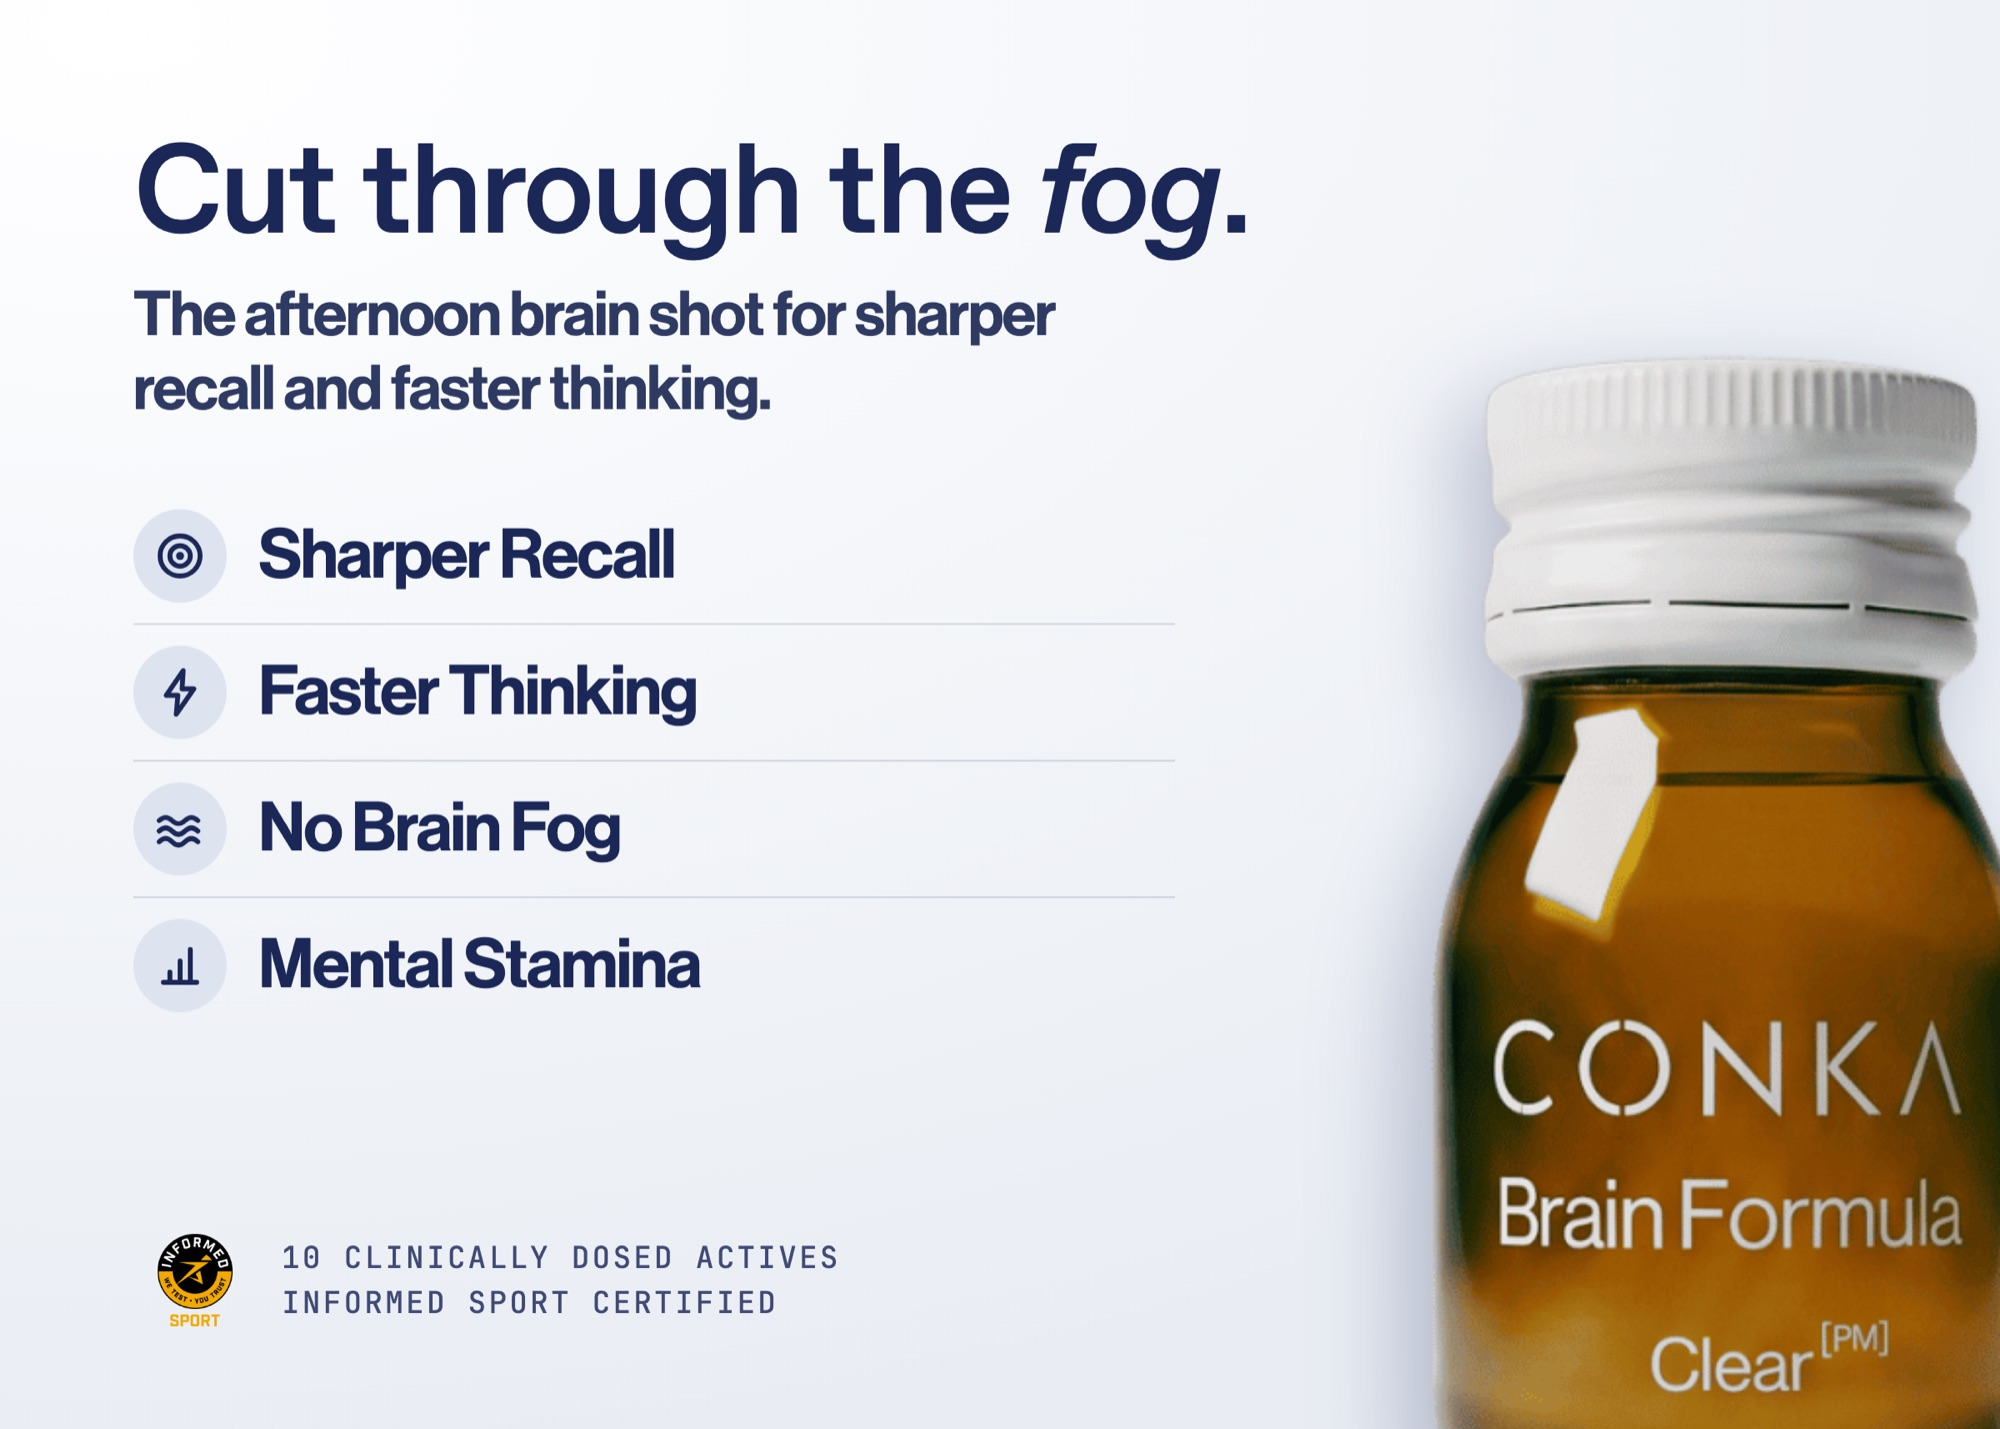
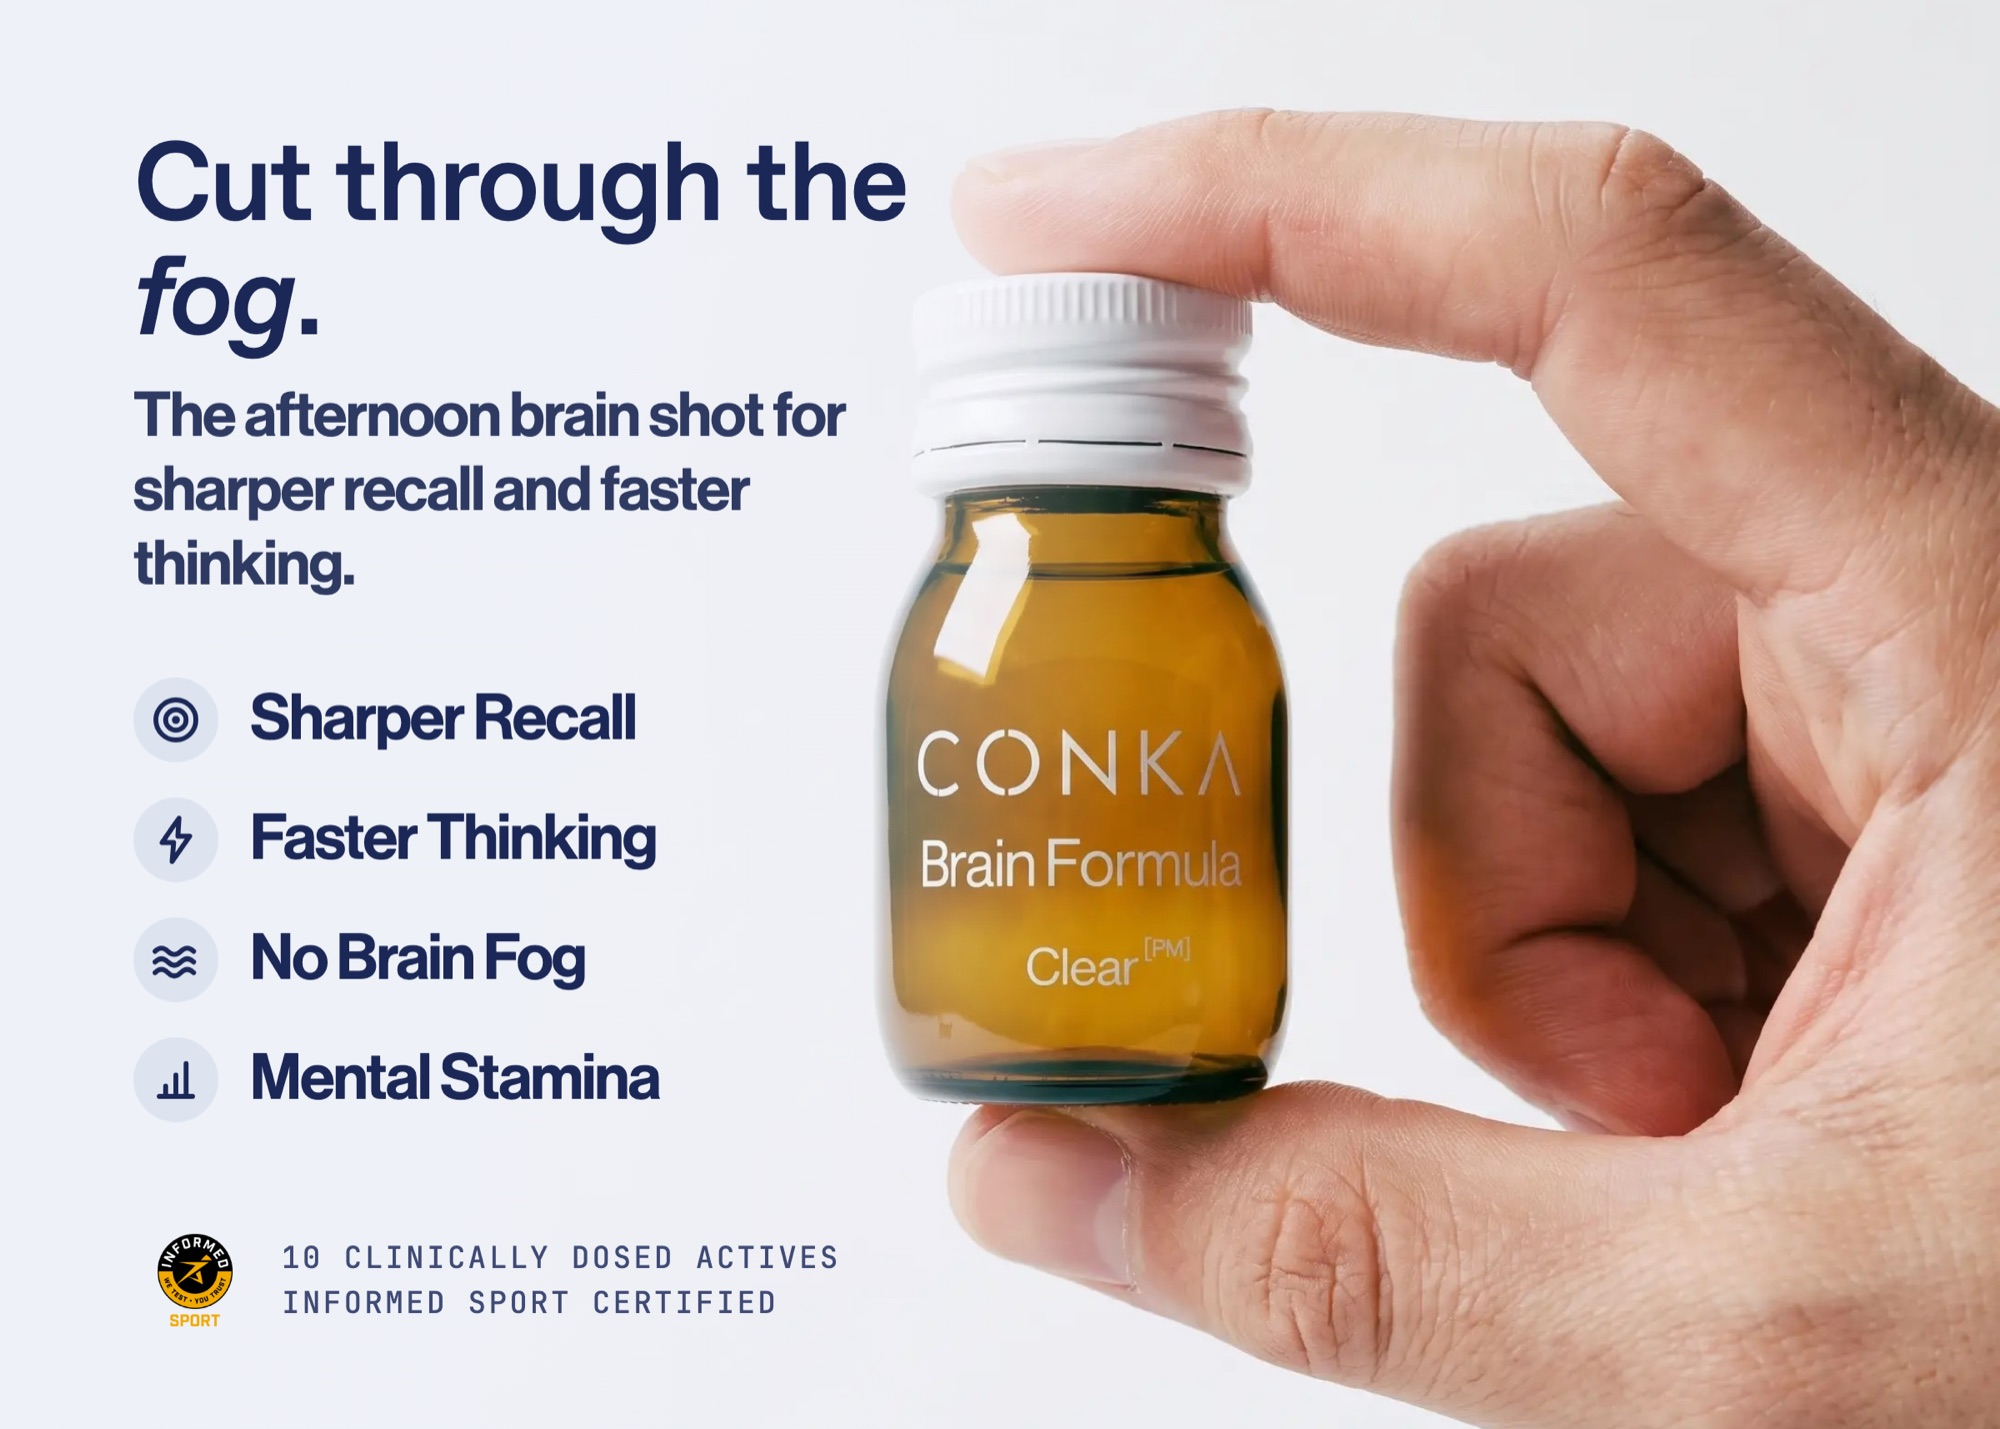
feat: hand-hold shots, per-product guarantee, better Clear cutout
Three changes from review.

The benefit stack now leads with the hand-holding-the-shot photograph rather
than a cutout on a gradient. It is the only human presence in the set, and the
only thing that shows how small a 30ml shot actually is — a product fact
nobody learns until it arrives. Its own empty left third carries the copy, so
the layout needed a scrim rather than a rebuild. The row hairlines are gone:
they ran under the bottle.

The guarantee is no longer shared. Each formula shows its own box, since the
caps differ. SharedGuarantee.jpg is deleted; proof and testing stay shared.

The Clear cutout is replaced. The previous one, from FMC-style, matched on
resolution but carried a visible olive-green cast next to Flow's warm amber.

Also retuned both guarantee slides: the scrim held near-opaque out to 52% and
washed most of the box out. It now starts falling off at 32% and clears by
58%, with the box pushed further right, so the box reads while the copy stays
fully legible.

Claude-Session: https://claude.ai/code/session_01AEGTL4LFRjcKoyGBkYzduk

diff --git a/design/pdp-slides/slides/c1.html b/design/pdp-slides/slides/c1.html
@@ -1,27 +1,28 @@
 <!doctype html><meta charset="utf-8"><title>C1 Benefit Stack (Clear)</title>
 <link rel="stylesheet" href="_base.css">
 <style>
-.slide{background:radial-gradient(120% 100% at 6% 2%, #fff 0%, #f5f7fa 44%, #e9edf3 100%)}
+.slide{background:#ebeced}
 
 /* Bottle emerging from the bottom-right corner, cropped by both edges
    (GrayMatter treatment). Cut out from the 2752px studio shot. */
-.shot{position:absolute;right:-40px;bottom:-170px;height:1460px;z-index:1;
-  filter:drop-shadow(-34px 34px 54px rgba(27,39,87,.26))}
+.bg{position:absolute;inset:0;z-index:0;background-image:url("../assets/ClearShotHold.jpg");
+  background-size:auto 1975px;background-repeat:no-repeat;background-position:100% 52%}
+.scrim{position:absolute;inset:0;z-index:1;background:linear-gradient(100deg,
+  rgba(238,241,247,.97) 0%, rgba(238,241,247,.93) 30%,
+  rgba(238,241,247,.55) 42%, rgba(238,241,247,0) 56%)}
 
-h1{font-family:Favorit;font-weight:500;font-size:152px;line-height:1;
-  letter-spacing:-.03em;max-width:1400px;position:relative;z-index:3}
+h1{font-family:Favorit;font-weight:500;font-size:134px;line-height:1.02;
+  letter-spacing:-.03em;max-width:1080px;position:relative;z-index:3}
 h1 em{font-style:italic}
 
 .sub{font-weight:500;font-size:74px;line-height:1.2;letter-spacing:-.018em;
-  color:#2f3a63;margin-top:32px;max-width:1180px;position:relative;z-index:3}
+  color:#2f3a63;margin-top:32px;max-width:1010px;position:relative;z-index:3}
 
-ul{list-style:none;margin-top:74px;max-width:1250px;position:relative;z-index:3}
-li{display:flex;align-items:center;gap:38px;padding:25px 0;
-  border-bottom:2px solid rgba(27,39,87,.16);
-  font-weight:500;font-size:82px;letter-spacing:-.022em;color:var(--navy)}
-li:last-child{border-bottom:0}
+ul{list-style:none;margin-top:70px;max-width:1120px;position:relative;z-index:3}
+li{display:flex;align-items:center;gap:38px;padding:21px 0;
+    font-weight:500;font-size:76px;letter-spacing:-.022em;color:var(--navy)}
 
-.ic{flex:0 0 112px;width:112px;height:112px;border-radius:50%;background:#dde4f0;
+.ic{flex:0 0 102px;width:102px;height:102px;border-radius:50%;background:#dde4f0;
   display:flex;align-items:center;justify-content:center}
 .ic svg{width:66px;height:64px;stroke:var(--navy);stroke-width:2.2;fill:none;
   stroke-linecap:round;stroke-linejoin:round}
@@ -34,7 +35,8 @@ li:last-child{border-bottom:0}
   line-height:1.5;color:#3f4a75}
 </style>
 <div class="slide">
-  <img class="shot" src="../assets/ClearCutout.png">
+  <div class="bg"></div>
+  <div class="scrim"></div>
 
   <h1>Cut through the <em>fog</em>.</h1>
   <div class="sub">The afternoon brain shot for sharper recall and faster thinking.</div>

diff --git a/design/pdp-slides/slides/s1.html b/design/pdp-slides/slides/s1.html
@@ -1,27 +1,28 @@
 <!doctype html><meta charset="utf-8"><title>S1 Benefit Stack</title>
 <link rel="stylesheet" href="_base.css">
 <style>
-.slide{background:radial-gradient(120% 100% at 6% 2%, #fff 0%, #f5f7fa 44%, #e9edf3 100%)}
+.slide{background:#eef1f7}
 
 /* Bottle emerging from the bottom-right corner, cropped by both edges
    (GrayMatter treatment). Cut out from the 2752px studio shot. */
-.shot{position:absolute;right:-40px;bottom:-170px;height:1460px;z-index:1;
-  filter:drop-shadow(-34px 34px 54px rgba(27,39,87,.26))}
+.bg{position:absolute;inset:0;z-index:0;background-image:url("../assets/FlowShotHold.jpg");
+  background-size:auto 1975px;background-repeat:no-repeat;background-position:100% 52%}
+.scrim{position:absolute;inset:0;z-index:1;background:linear-gradient(100deg,
+  rgba(238,241,247,.97) 0%, rgba(238,241,247,.93) 30%,
+  rgba(238,241,247,.55) 42%, rgba(238,241,247,0) 56%)}
 
-h1{font-family:Favorit;font-weight:500;font-size:152px;line-height:1;
-  letter-spacing:-.03em;max-width:1400px;position:relative;z-index:3}
+h1{font-family:Favorit;font-weight:500;font-size:134px;line-height:1.02;
+  letter-spacing:-.03em;max-width:1080px;position:relative;z-index:3}
 h1 em{font-style:italic}
 
 .sub{font-weight:500;font-size:74px;line-height:1.2;letter-spacing:-.018em;
-  color:#2f3a63;margin-top:32px;max-width:1180px;position:relative;z-index:3}
+  color:#2f3a63;margin-top:32px;max-width:1010px;position:relative;z-index:3}
 
-ul{list-style:none;margin-top:74px;max-width:1250px;position:relative;z-index:3}
-li{display:flex;align-items:center;gap:38px;padding:25px 0;
-  border-bottom:2px solid rgba(27,39,87,.16);
-  font-weight:500;font-size:82px;letter-spacing:-.022em;color:var(--navy)}
-li:last-child{border-bottom:0}
+ul{list-style:none;margin-top:70px;max-width:1120px;position:relative;z-index:3}
+li{display:flex;align-items:center;gap:38px;padding:21px 0;
+    font-weight:500;font-size:76px;letter-spacing:-.022em;color:var(--navy)}
 
-.ic{flex:0 0 112px;width:112px;height:112px;border-radius:50%;background:#dde4f0;
+.ic{flex:0 0 102px;width:102px;height:102px;border-radius:50%;background:#dde4f0;
   display:flex;align-items:center;justify-content:center}
 .ic svg{width:66px;height:64px;stroke:var(--navy);stroke-width:2.2;fill:none;
   stroke-linecap:round;stroke-linejoin:round}
@@ -34,7 +35,8 @@ li:last-child{border-bottom:0}
   line-height:1.5;color:#3f4a75}
 </style>
 <div class="slide">
-  <img class="shot" src="../assets/FlowCutout.png">
+  <div class="bg"></div>
+  <div class="scrim"></div>
 
   <h1>A <em>Sharper</em> Mind.</h1>
   <div class="sub">The daily morning brain shot for sharper, calmer focus.</div>

diff --git a/design/pdp-slides/slides/s8.html b/design/pdp-slides/slides/s8.html
@@ -1,0 +1,37 @@
+<!doctype html><meta charset="utf-8"><title>S8 Guarantee (Flow)</title>
+<link rel="stylesheet" href="_base.css">
+<style>
+.slide{padding:0;background:#eef0f5}
+
+/* full-bleed studio shot; its own empty left third carries the copy */
+.bg{position:absolute;inset:0;z-index:0;background-image:url("../assets/Flow28Box.jpg");
+  background-size:auto 1975px;background-position:calc(100% + 70px) 50%}
+/* scrim so navy type holds on the left without flattening the photo */
+.scrim{position:absolute;inset:0;z-index:1;
+  background:linear-gradient(100deg,
+    rgba(240,243,248,.99) 0%, rgba(240,243,248,.97) 32%,
+    rgba(240,243,248,.74) 44%, rgba(240,243,248,0) 58%)}
+
+.copy{position:absolute;left:160px;top:300px;width:980px;z-index:3}
+h1{font-family:Favorit;font-weight:500;font-size:132px;line-height:1.0;letter-spacing:-.032em}
+h1 em{font-style:italic}
+.sub{font-weight:500;font-size:64px;line-height:1.24;letter-spacing:-.018em;
+  color:#2f3a63;margin-top:40px}
+.pill{display:inline-block;margin-top:56px;background:var(--navy);color:#fff;border-radius:999px;
+  padding:26px 48px 28px;font-family:JBM,monospace;font-weight:500;font-size:44px;
+  letter-spacing:.09em;white-space:nowrap}
+.note{margin-top:34px;font-family:JBM,monospace;font-weight:500;font-size:40px;
+  letter-spacing:.09em;color:#5a6690}
+</style>
+<div class="slide">
+  <div class="bg"></div>
+  <div class="scrim"></div>
+
+  <div class="copy">
+    <h1>100 days.<br>Or your <em>money back</em>.</h1>
+    <div class="sub">If your mental performance doesn't noticeably improve,
+      we refund you completely. No return necessary.</div>
+    <div class="pill">UNDER 1.2% EVER CLAIM IT</div>
+    <div class="note">FREE UK SHIPPING &nbsp;·&nbsp; CANCEL ANYTIME</div>
+  </div>
+</div>

diff --git a/app/lib/mmPdpData.ts b/app/lib/mmPdpData.ts
@@ -14,10 +14,11 @@ import { pickFaqItems } from "./faqContent";
 
 const ASSET_BASE = "/formulas/mmPdpAssets";
 
-/** Redrawn Flow slides (SCRUM-TBD). Authored as HTML in `design/pdp-slides/`
- *  and rendered with its `render.sh`, so the copy and the numbers on them stay
- *  diffable rather than baked into a binary. Clear and Both still run off
- *  ASSET_BASE until their versions exist. */
+/** Redrawn Flow and Clear slides. Authored as HTML in `design/pdp-slides/` and
+ *  rendered with its `render.sh`, so the copy and the numbers on them stay
+ *  diffable rather than baked into a binary. `Shared*` slides carry nothing
+ *  product-specific and are referenced by both galleries. Both ("03") still
+ *  runs off ASSET_BASE. */
 const ASSET_BASE_V2 = "/formulas/mmPdpAssetsV2";
 
 /** Rectangular (7:5) gallery assets in presentation order. The research /
@@ -35,7 +36,7 @@ export const MM_GALLERY_ASSETS: Record<ProductHeroId, string[]> = {
     `${ASSET_BASE_V2}/SharedProof.jpg`,
     `${ASSET_BASE_V2}/SharedTested.jpg`,
     `${ASSET_BASE_V2}/FlowReview.jpg`,
-    `${ASSET_BASE_V2}/SharedGuarantee.jpg`,
+    `${ASSET_BASE_V2}/FlowGuarantee.jpg`,
   ],
   "02": [
     `${ASSET_BASE_V2}/ClearBenefitStack.jpg`,
@@ -45,7 +46,7 @@ export const MM_GALLERY_ASSETS: Record<ProductHeroId, string[]> = {
     `${ASSET_BASE_V2}/SharedProof.jpg`,
     `${ASSET_BASE_V2}/SharedTested.jpg`,
     `${ASSET_BASE_V2}/ClearReview.jpg`,
-    `${ASSET_BASE_V2}/SharedGuarantee.jpg`,
+    `${ASSET_BASE_V2}/ClearGuarantee.jpg`,
   ],
   "03": [
     `${ASSET_BASE}/BothMmHero.jpg`,

diff --git a/design/pdp-slides/slides/c8.html b/design/pdp-slides/slides/c8.html
@@ -1,16 +1,16 @@
-<!doctype html><meta charset="utf-8"><title>S8 Guarantee</title>
+<!doctype html><meta charset="utf-8"><title>C8 Guarantee (Clear)</title>
 <link rel="stylesheet" href="_base.css">
 <style>
 .slide{padding:0;background:#eef0f5}
 
 /* full-bleed studio shot; its own empty left third carries the copy */
-.bg{position:absolute;inset:0;z-index:0;background-image:url("../assets/Flow28Box.jpg");
-  background-size:auto 1975px;background-position:100% 50%}
+.bg{position:absolute;inset:0;z-index:0;background-image:url("../assets/Clear28Box.jpg");
+  background-size:auto 1975px;background-position:calc(100% + 70px) 50%}
 /* scrim so navy type holds on the left without flattening the photo */
 .scrim{position:absolute;inset:0;z-index:1;
   background:linear-gradient(100deg,
-    rgba(240,243,248,.99) 0%, rgba(240,243,248,.97) 40%,
-    rgba(240,243,248,.80) 52%, rgba(240,243,248,0) 68%)}
+    rgba(240,243,248,.99) 0%, rgba(240,243,248,.97) 32%,
+    rgba(240,243,248,.74) 44%, rgba(240,243,248,0) 58%)}
 
 .copy{position:absolute;left:160px;top:300px;width:980px;z-index:3}
 h1{font-family:Favorit;font-weight:500;font-size:132px;line-height:1.0;letter-spacing:-.032em}

diff --git a/design/pdp-slides/README.md b/design/pdp-slides/README.md
@@ -34,10 +34,15 @@ on Flow `monthly-sub` in `app/lib/offerData.ts` (slide `s0`).
 | `c7` | `ClearReview.jpg` | Aaron H. on the afternoon coffee |
 | `shared-proof` | `SharedProof.jpg` | +28.96% measured in the app |
 | `shared-tested` | `SharedTested.jpg` | Informed Sport + 4 certifications |
-| `shared-guarantee` | `SharedGuarantee.jpg` | 100 days, under 1.2% claim it |
+| `s8` | `FlowGuarantee.jpg` | 100 days, Flow box |
+| `c8` | `ClearGuarantee.jpg` | 100 days, Clear box |
 
-Three slides are product-agnostic and are shared by both galleries, hence the
-`Shared` prefix: proof, testing and guarantee. Nothing on them names a formula.
+Two slides are product-agnostic and are shared by both galleries, hence the
+`Shared` prefix: proof and testing. The guarantee is not shared — each formula
+shows its own box, since the caps differ.
+
+`s1` / `c1` use the hand-hold photographs, which are the only human presence in
+the set and the only thing that conveys how small a 30ml shot actually is.
 Clear's pricing is numerically identical to Flow's at every cadence, so `c0`
 and `c0q` carry the same figures as `s0` / `s0q` and differ only in photograph.
 
@@ -90,10 +95,11 @@ should be regenerated with Clear labels.
 
 ## Clear bottle resolution
 
-`ClearCutout.png` is 309x622 of actual bottle against Flow's 435x874, so Clear
-runs about 29% softer at matched scale. Aspect matches to 0.001 (0.497 vs
-0.498), so layouts transfer between the two without adjustment. A higher-res
-transparent Clear would be the single best asset to replace.
+`ClearCutout.png` is 310x624 of actual bottle against Flow's 435x874, so Clear
+runs about 29% softer at matched scale. Aspect matches to 0.001, so layouts
+transfer between the two without adjustment. An earlier candidate from
+`FMC-style/ClearTransparent.png` was the same resolution but carried a visible
+olive-green cast; the current file is the correct warm amber.
 
 ## Both
 
